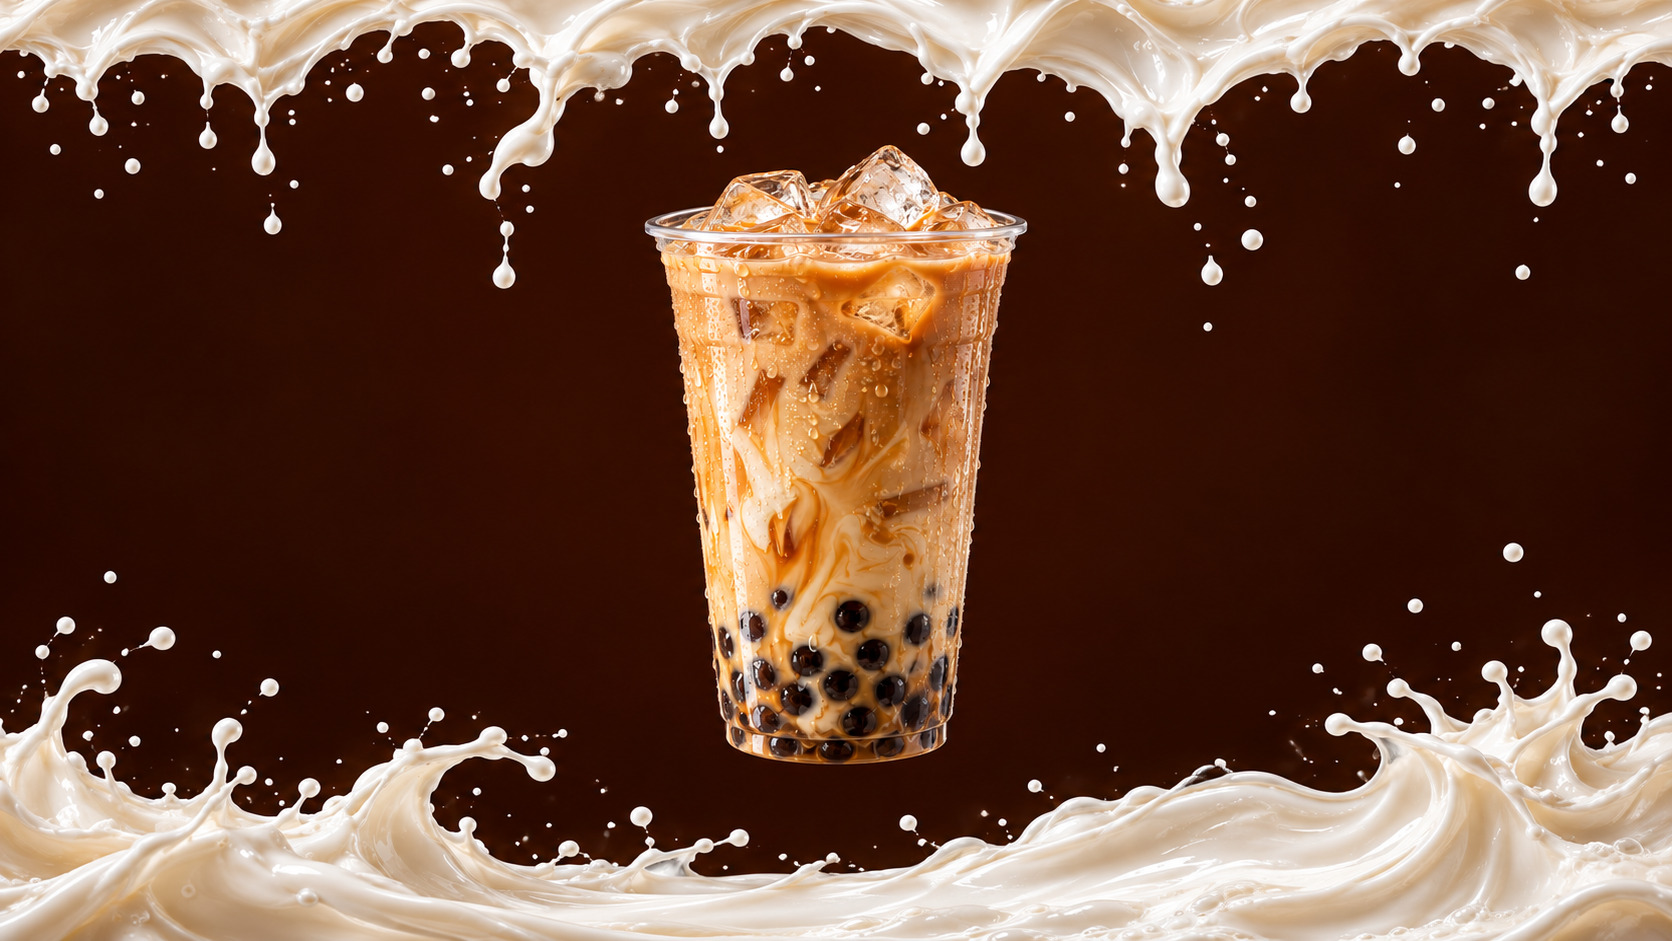
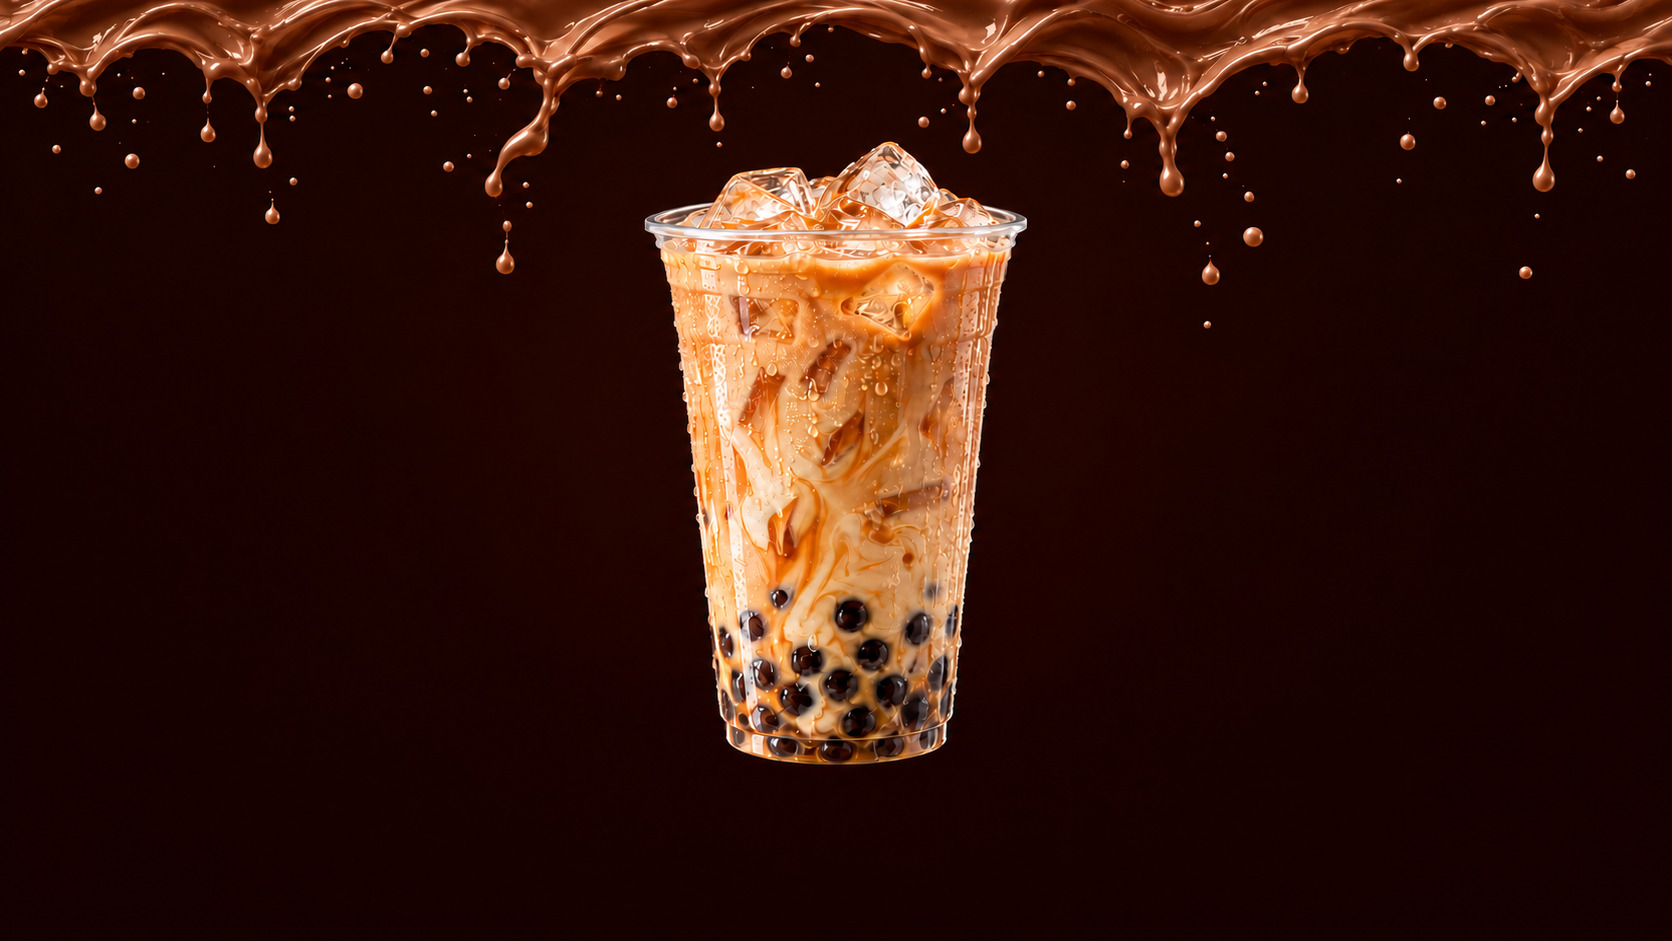
обновил hero, тексты и картинки

diff --git a/components/Carousel3D.tsx b/components/Carousel3D.tsx
@@ -2,6 +2,7 @@
 
 import { useEffect, useRef, useState, type KeyboardEvent, type PointerEvent } from 'react'
 import { motion, useAnimationFrame, useMotionValue, useSpring, useTransform, type MotionValue } from 'framer-motion'
+import { useReducedMotion } from '@/lib/use-reduced-motion'
 
 export type Photo = {
   src: string
@@ -20,7 +21,7 @@ export const PHOTOS: Photo[] = [
 ]
 
 const AUTO_SPEED = 9 // degrees per second
-const MOUSE_SENSITIVITY = 0.35
+const DRAG_SENSITIVITY = 0.35
 
 type CardSize = {
   cardWidth: number
@@ -99,37 +100,34 @@ export default function Carousel3D({ photos = PHOTOS }: { photos?: Photo[] }) {
   const target = useMotionValue(0)
   const rotation = useSpring(target, { stiffness: 90, damping: 22, mass: 0.6 })
 
-  const [isHovering, setIsHovering] = useState(false)
-  const isDragging = useRef(false)
-  const lastX = useRef<number | null>(null)
-  const reducedMotion = useRef(false)
-
-  useEffect(() => {
-    reducedMotion.current = window.matchMedia('(prefers-reduced-motion: reduce)').matches
-  }, [])
+  const activePointerId = useRef<number | null>(null)
+  const lastX = useRef(0)
+  const reducedMotion = useReducedMotion()
 
   useAnimationFrame((_, delta) => {
-    if (isHovering || isDragging.current || reducedMotion.current) return
+    if (activePointerId.current !== null || reducedMotion) return
     target.set(target.get() - (AUTO_SPEED * delta) / 1000)
   })
 
   const handlePointerMove = (event: PointerEvent<HTMLElement>) => {
-    if (event.pointerType !== 'mouse' && !isDragging.current) return
-    if (lastX.current !== null) {
-      target.set(target.get() + (event.clientX - lastX.current) * MOUSE_SENSITIVITY)
-    }
+    if (event.pointerId !== activePointerId.current) return
+    target.set(target.get() + (event.clientX - lastX.current) * DRAG_SENSITIVITY)
     lastX.current = event.clientX
   }
 
   const handlePointerDown = (event: PointerEvent<HTMLElement>) => {
-    isDragging.current = true
+    if (!event.isPrimary || event.button !== 0 || activePointerId.current !== null) return
+    activePointerId.current = event.pointerId
     lastX.current = event.clientX
-    event.currentTarget.setPointerCapture?.(event.pointerId)
+    event.currentTarget.setPointerCapture(event.pointerId)
   }
 
   const endDrag = (event: PointerEvent<HTMLElement>) => {
-    isDragging.current = false
-    if (event.pointerType !== 'mouse') lastX.current = null
+    if (event.pointerId !== activePointerId.current) return
+    activePointerId.current = null
+    if (event.currentTarget.hasPointerCapture(event.pointerId)) {
+      event.currentTarget.releasePointerCapture(event.pointerId)
+    }
   }
 
   const snapTo = (direction: 1 | -1) => {
@@ -153,24 +151,12 @@ export default function Carousel3D({ photos = PHOTOS }: { photos?: Photo[] }) {
       aria-label="Coffee shop photo gallery"
       tabIndex={0}
       onKeyDown={handleKeyDown}
-      onFocus={() => setIsHovering(true)}
-      onBlur={() => setIsHovering(false)}
-      onPointerEnter={(e) => {
-        setIsHovering(true)
-        lastX.current = e.clientX
-      }}
-      onPointerLeave={() => {
-        setIsHovering(false)
-        isDragging.current = false
-        lastX.current = null
-      }}
       onPointerMove={handlePointerMove}
       onPointerDown={handlePointerDown}
       onPointerUp={endDrag}
       onPointerCancel={endDrag}
-      className={`relative w-full touch-pan-y select-none rounded-3xl outline-none focus-visible:ring-2 focus-visible:ring-[#d5b38a]/60 ${
-        isHovering ? 'cursor-grab active:cursor-grabbing' : ''
-      }`}
+      onLostPointerCapture={endDrag}
+      className="relative w-full cursor-grab touch-pan-y select-none rounded-3xl outline-none focus-visible:ring-2 focus-visible:ring-[#d5b38a]/60 active:cursor-grabbing"
       style={{ height: size.cardHeight + 90, perspective: '1200px', perspectiveOrigin: '50% 45%' }}
     >
       <motion.div className="absolute inset-0 [transform-style:preserve-3d]" style={{ rotateY: rotation }}>

diff --git a/components/menu-marquee.tsx b/components/menu-marquee.tsx
@@ -43,9 +43,7 @@ function MenuCard({
           min-[400px]:h-[330px]
           sm:h-[360px]
           md:rounded-[24px]
-          lg:h-[400px]
-          xl:h-[460px]
-          2xl:h-[520px]
+          lg:h-[320px]
         "
       >
         <motion.img
@@ -90,7 +88,7 @@ function MenuCard({
           className="
             absolute inset-x-0 bottom-0 z-10
             p-3 min-[400px]:p-4
-            lg:p-5 xl:p-6 2xl:p-8
+            lg:p-4 xl:p-5
           "
         >
           <span
@@ -115,9 +113,8 @@ function MenuCard({
               leading-[1.12] tracking-[-0.025em] text-white
               min-[400px]:text-base
               sm:text-[17px]
-              lg:text-lg
-              xl:text-[22px]
-              2xl:text-2xl
+              lg:text-base
+              xl:text-lg
             "
           >
             {item.title}
@@ -160,8 +157,7 @@ function MenuCard({
               mt-3 flex items-center justify-between gap-1.5
               border-t border-white/10 pt-3
               sm:mt-4
-              lg:mt-5 lg:gap-3 lg:pt-4
-              xl:mt-7 xl:pt-5
+              lg:mt-4 lg:gap-3
             "
           >
             <p
@@ -169,7 +165,7 @@ function MenuCard({
                 whitespace-nowrap text-sm font-black
                 leading-none tabular-nums text-white
                 min-[400px]:text-base
-                lg:text-lg xl:text-xl
+                lg:text-lg
               "
             >
               {item.price.toLocaleString('ru-RU')}&nbsp;₽
@@ -252,16 +248,16 @@ export function MenuMarquee() {
         px-2 pb-8 pt-24
         min-[400px]:px-3
         sm:px-5 sm:pb-12
-        md:-mt-24 md:via-[96px] md:pt-36
-        lg:px-7 lg:pb-20
+        md:-mt-24 md:via-[96px] md:px-10 md:pt-36
+        lg:pb-20
       "
     >
       <ul
         className="
-          mx-auto grid max-w-[1440px]
+          mx-auto grid w-full max-w-6xl
           list-none grid-cols-2 gap-1 p-0
           sm:grid-cols-3 sm:gap-1.5
-          lg:grid-cols-4 lg:gap-[2px]
+          lg:grid-cols-4 lg:gap-4
         "
       >
         {/* Теперь перебираем ровно 8 карточек */}

diff --git a/components/menu-section.tsx b/components/menu-section.tsx
@@ -142,24 +142,19 @@ export function MenuSection() {
               </p>
             </motion.div>
 
-            <div className="flex flex-col justify-between gap-6 md:flex-row md:items-end md:gap-12">
-              <motion.h2
-                variants={sectionReveal}
-                id={`${instanceId}-title`}
-                className={`${serif.className} text-5xl font-normal leading-[1.1] tracking-[-0.04em] sm:text-7xl lg:text-8xl`}
-              >
-                Наше <span className="font-normal italic">меню</span>
-                <span aria-hidden="true" className="text-[#d5b38a]">
-                  .
-                </span>
-              </motion.h2>
+            <h2
+              id={`${instanceId}-title`}
+              className={`${serif.className} text-5xl font-normal leading-[1.1] tracking-[-0.04em] text-white sm:text-7xl lg:text-8xl`}
+            >
+              Наше <span className="font-normal italic">меню</span>
+              <span aria-hidden="true" className="text-[#d5b38a]">
+                .
+              </span>
+            </h2>
 
-              <motion.p variants={sectionReveal} className="max-w-xs text-sm leading-7 text-white/60 md:pb-2">
-                Любимый кофе, свежая выпечка
-                <br />
-                и маленький повод замедлиться.
-              </motion.p>
-            </div>
+            <motion.p variants={sectionReveal} className="mt-6 text-sm leading-7 text-white/60 md:whitespace-nowrap md:text-base">
+              Любимый кофе, свежая выпечка и маленький повод замедлиться.
+            </motion.p>
           </motion.header>
 
           <motion.div

diff --git a/components/About.tsx b/components/About.tsx
@@ -197,7 +197,7 @@ export function About() {
 
           <ul
             aria-label="Почему у нас хорошо"
-            className="mt-16 grid list-none grid-cols-2 border-t border-[#d5b38a]/20 p-0 md:mt-24 lg:grid-cols-4"
+            className="mt-16 grid list-none grid-cols-2 p-0 md:mt-24 lg:grid-cols-4"
           >
             {features.map(({ title, description, icon: Icon }, index) => (
               <motion.li
@@ -209,16 +209,13 @@ export function About() {
                 viewport={revealViewport}
                 className={`group relative border-[#d5b38a]/20 px-4 py-7 odd:border-r sm:px-6 sm:py-9 lg:border-r lg:px-7 lg:last:border-r-0 ${index < 2 ? 'border-b lg:border-b-0' : ''}`}
               >
-                <div className="mb-7 flex items-center justify-between gap-3">
+                <div className="mb-7">
                   <Icon
                     aria-hidden="true"
                     size={26}
                     strokeWidth={1.25}
                     className="text-[#d5b38a] transition-transform duration-500 group-hover:-translate-y-1 motion-reduce:transform-none motion-reduce:transition-none"
                   />
-                  <span aria-hidden="true" className="text-[10px] tabular-nums tracking-widest text-[#d5b38a]/60">
-                    0{index + 1}
-                  </span>
                 </div>
                 <h3 className={`${serif.className} text-xl font-normal text-[#f5ece2] sm:text-2xl`}>
                   {title}

diff --git a/components/Reviews.tsx b/components/Reviews.tsx
@@ -104,17 +104,16 @@ export function Reviews() {
             initial="hidden"
             whileInView="visible"
             viewport={revealViewport}
-            className="mx-auto max-w-3xl text-center"
+            className="text-left"
           >
             <motion.div
               variants={textReveal}
-              className="mb-8 flex items-center justify-center gap-4"
+              className="mb-8 flex items-center gap-4"
             >
-              <span aria-hidden="true" className="h-px w-8 bg-[#d5b38a]/40" />
-              <p className="text-[11px] font-medium uppercase tracking-[0.3em] text-[#d5b38a]">
+              <span aria-hidden="true" className="h-px w-10 shrink-0 bg-[#d5b38a]/60" />
+              <p className="whitespace-nowrap text-[11px] font-medium uppercase tracking-[0.3em] text-[#d5b38a]">
                 Zerna · тёплые слова
               </p>
-              <span aria-hidden="true" className="h-px w-8 bg-[#d5b38a]/40" />
             </motion.div>
 
             <motion.h2
@@ -129,7 +128,7 @@ export function Reviews() {
 
             <motion.p
               variants={textReveal}
-              className="mx-auto mt-6 max-w-md text-sm leading-7 text-white/60"
+              className="mt-6 max-w-md text-sm leading-7 text-white/60"
             >
               Самое приятное — знать, что тебе хочется вернуться.
             </motion.p>

diff --git a/components/hero.tsx b/components/hero.tsx
@@ -13,7 +13,7 @@ export function Hero() {
       {/* Плавный зум с задержкой, чтобы начать после прелоадера */}
       <motion.div
         aria-hidden="true"
-        className="absolute inset-0 -z-10 bg-[url('/stakan.jpg')] bg-cover bg-center bg-no-repeat will-change-transform md:bg-[url('/stakan-pc.jpg')]"
+        className="absolute inset-0 -z-10 bg-[url('/stakan123.jpg')] bg-cover bg-center bg-no-repeat will-change-transform md:bg-[url('/stakan-pc.jpg')]"
         initial={{ scale: reduceMotion ? 1 : 1.15, y: 0 }}
         animate={{ scale: 1, y: 0 }}
         transition={{
